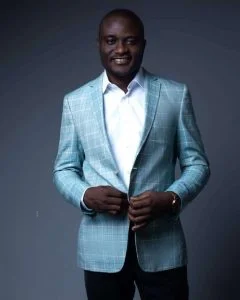
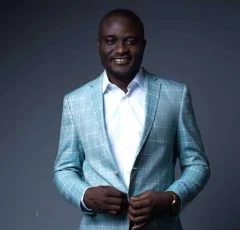
Crop Olaniyi portrait to end under hands and add object-top alignment to team card images

diff --git a/src/pages/About.tsx b/src/pages/About.tsx
@@ -359,7 +359,7 @@ export default function About() {
                     <img 
                       src={member.image} 
                       alt={member.name} 
-                      className="h-60 w-full object-cover grayscale group-hover:grayscale-0 group-hover:scale-105 transition-all duration-500"
+                      className="h-60 w-full object-cover object-top grayscale group-hover:grayscale-0 group-hover:scale-105 transition-all duration-500"
                     />
                     <div className="absolute inset-0 bg-gradient-to-t from-stone-900/60 via-transparent to-transparent opacity-0 group-hover:opacity-100 transition-opacity duration-300 flex items-end p-4">
                       <span className="text-white text-xs font-bold flex items-center gap-1.5 bg-lani-primary/90 backdrop-blur-sm px-3 py-1.5 rounded-full shadow">
@@ -421,7 +421,7 @@ export default function About() {
                 <img 
                   src={selectedMember.image} 
                   alt={selectedMember.name} 
-                  className="w-full h-full object-cover"
+                  className="w-full h-full object-cover object-top"
                 />
               </div>
               <div className="flex-1 pr-6">
